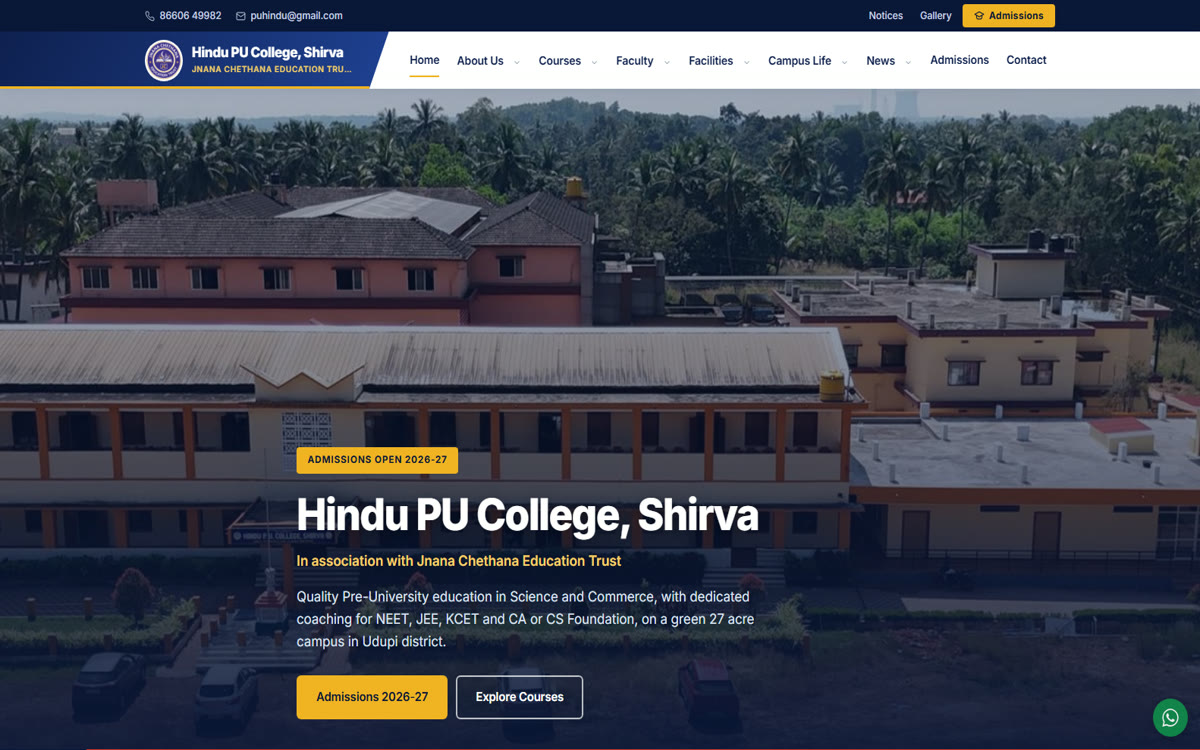
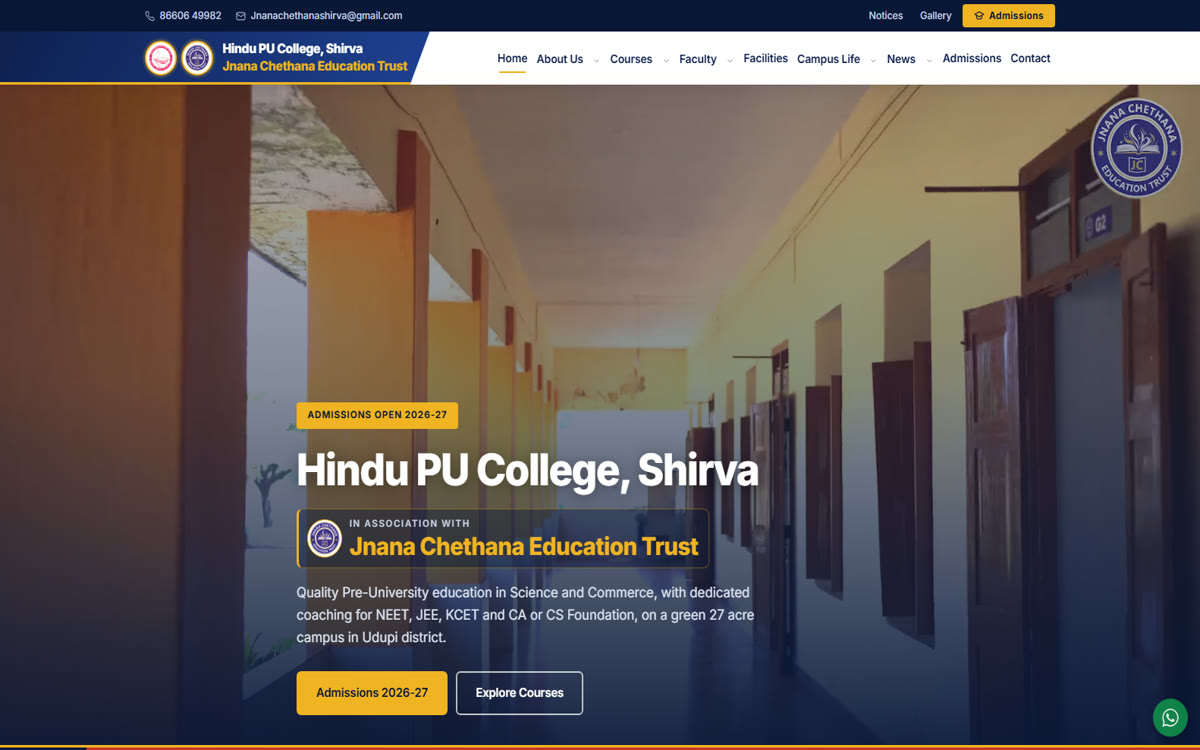
Point Jnana Chethana and Studio Dental to their live domains
Update links from the vercel.app preview URLs to hjcshirva.com and
drvivekamin.com. Refresh the Jnana Chethana poster to match their
current live design (trust logo added, updated hero photo).

Also add Dr. Mariam Anjum Ifthikar (gynaecologic oncology) to the
projects card row with a hero screenshot and favicon.

diff --git a/projects.html b/projects.html
@@ -438,7 +438,7 @@
       </div>
 
       <div class="grid items-center gap-8 lg:grid-cols-2 lg:gap-14">
-        <a href="https://drvivekamin.vercel.app/index.html" target="_blank" rel="noopener" class="group block lg:order-2">
+        <a href="https://drvivekamin.com/" target="_blank" rel="noopener" class="group block lg:order-2">
           <div class="relative overflow-hidden rounded-3xl border border-white/10 bg-neutral-900 shadow-[0_20px_80px_-20px_rgba(0,0,0,0.6)]">
             <img src="images/portfolio/drvivekamin.jpg" alt="Studio Dental website" loading="lazy" class="aspect-[16/10] w-full object-cover object-top transition-transform duration-700 ease-out group-hover:scale-[1.03]" />
           </div>
@@ -453,7 +453,7 @@
             <li class="rounded-full border border-white/10 bg-white/5 px-3 py-1 font-mono text-[11px] uppercase tracking-wider text-white/60">Patient reviews</li>
             <li class="rounded-full border border-white/10 bg-white/5 px-3 py-1 font-mono text-[11px] uppercase tracking-wider text-white/60">Appointment booking</li>
           </ul>
-          <a href="https://drvivekamin.vercel.app/index.html" target="_blank" rel="noopener" class="mt-7 inline-flex items-center gap-2 rounded-full border border-white/20 px-5 py-2.5 text-sm font-medium text-white transition-colors hover:bg-white/10">View Studio Dental <i data-lucide="arrow-up-right" class="h-4 w-4"></i></a>
+          <a href="https://drvivekamin.com/" target="_blank" rel="noopener" class="mt-7 inline-flex items-center gap-2 rounded-full border border-white/20 px-5 py-2.5 text-sm font-medium text-white transition-colors hover:bg-white/10">View Studio Dental <i data-lucide="arrow-up-right" class="h-4 w-4"></i></a>
         </div>
       </div>
 
@@ -658,7 +658,7 @@
       </div>
 
       <div class="grid items-center gap-8 lg:grid-cols-2 lg:gap-14">
-        <a href="https://jnana-chetana.vercel.app/" target="_blank" rel="noopener" class="group block ">
+        <a href="https://hjcshirva.com/" target="_blank" rel="noopener" class="group block ">
           <div class="relative overflow-hidden rounded-3xl border border-white/10 bg-neutral-900 shadow-[0_20px_80px_-20px_rgba(0,0,0,0.6)]">
             <img src="images/portfolio/jnanachetana.jpg" alt="Hindu PU College, Shirva website" loading="lazy" class="aspect-[16/10] w-full object-cover object-top transition-transform duration-700 ease-out group-hover:scale-[1.03]" />
           </div>
@@ -673,7 +673,7 @@
             <li class="rounded-full border border-white/10 bg-white/5 px-3 py-1 font-mono text-[11px] uppercase tracking-wider text-white/60">Notices &amp; gallery</li>
             <li class="rounded-full border border-white/10 bg-white/5 px-3 py-1 font-mono text-[11px] uppercase tracking-wider text-white/60">Campus life</li>
           </ul>
-          <a href="https://jnana-chetana.vercel.app/" target="_blank" rel="noopener" class="mt-7 inline-flex items-center gap-2 rounded-full border border-white/20 px-5 py-2.5 text-sm font-medium text-white transition-colors hover:bg-white/10">View the college site <i data-lucide="arrow-up-right" class="h-4 w-4"></i></a>
+          <a href="https://hjcshirva.com/" target="_blank" rel="noopener" class="mt-7 inline-flex items-center gap-2 rounded-full border border-white/20 px-5 py-2.5 text-sm font-medium text-white transition-colors hover:bg-white/10">View the college site <i data-lucide="arrow-up-right" class="h-4 w-4"></i></a>
         </div>
       </div>
     </div>
@@ -691,6 +691,18 @@
       <p class="hidden font-mono text-[11px] uppercase tracking-wider text-white/30 sm:block">Scroll &rarr;</p>
     </div>
     <div class="mt-8 flex snap-x snap-mandatory gap-5 overflow-x-auto px-5 pb-4 [scrollbar-width:none] [&::-webkit-scrollbar]:hidden md:px-10 lg:px-16">
+        <a href="https://www.drmariamanjumifthikar.com/" target="_blank" rel="noopener" class="snap-start group block w-[230px] shrink-0 sm:w-[260px]">
+          <div class="relative aspect-[16/10] overflow-hidden rounded-xl border border-white/10 bg-neutral-900">
+            <img src="images/portfolio/drmariamanjumifthikar.jpg" alt="Dr. Mariam Anjum Ifthikar website" loading="lazy" class="h-full w-full object-cover object-top opacity-80 transition-all duration-500 group-hover:opacity-100 group-hover:scale-[1.04]" />
+          </div>
+          <div class="mt-3 flex items-center gap-2.5">
+            <img src="images/favicons/drmariamanjumifthikar.png" alt="" width="18" height="18" loading="lazy" class="h-[18px] w-[18px] shrink-0 rounded" />
+            <div class="min-w-0">
+              <h3 class="flex items-center gap-1 truncate text-sm font-normal tracking-tight text-white/90">Dr. Mariam Anjum Ifthikar <i data-lucide="arrow-up-right" class="h-3.5 w-3.5 shrink-0 text-white/30 transition-all duration-300 group-hover:translate-x-0.5 group-hover:text-white"></i></h3>
+              <p class="truncate font-mono text-[10px] uppercase tracking-wider text-white/40">Gynaecologic Oncology</p>
+            </div>
+          </div>
+        </a>
         <a href="https://www.drrohanshetty.com/" target="_blank" rel="noopener" class="snap-start group block w-[230px] shrink-0 sm:w-[260px]">
           <div class="relative aspect-[16/10] overflow-hidden rounded-xl border border-white/10 bg-neutral-900">
             <img src="images/portfolio/drrohanshetty.jpg" alt="Dr. Rohan Shetty website" loading="lazy" class="h-full w-full object-cover object-top opacity-80 transition-all duration-500 group-hover:opacity-100 group-hover:scale-[1.04]" />
